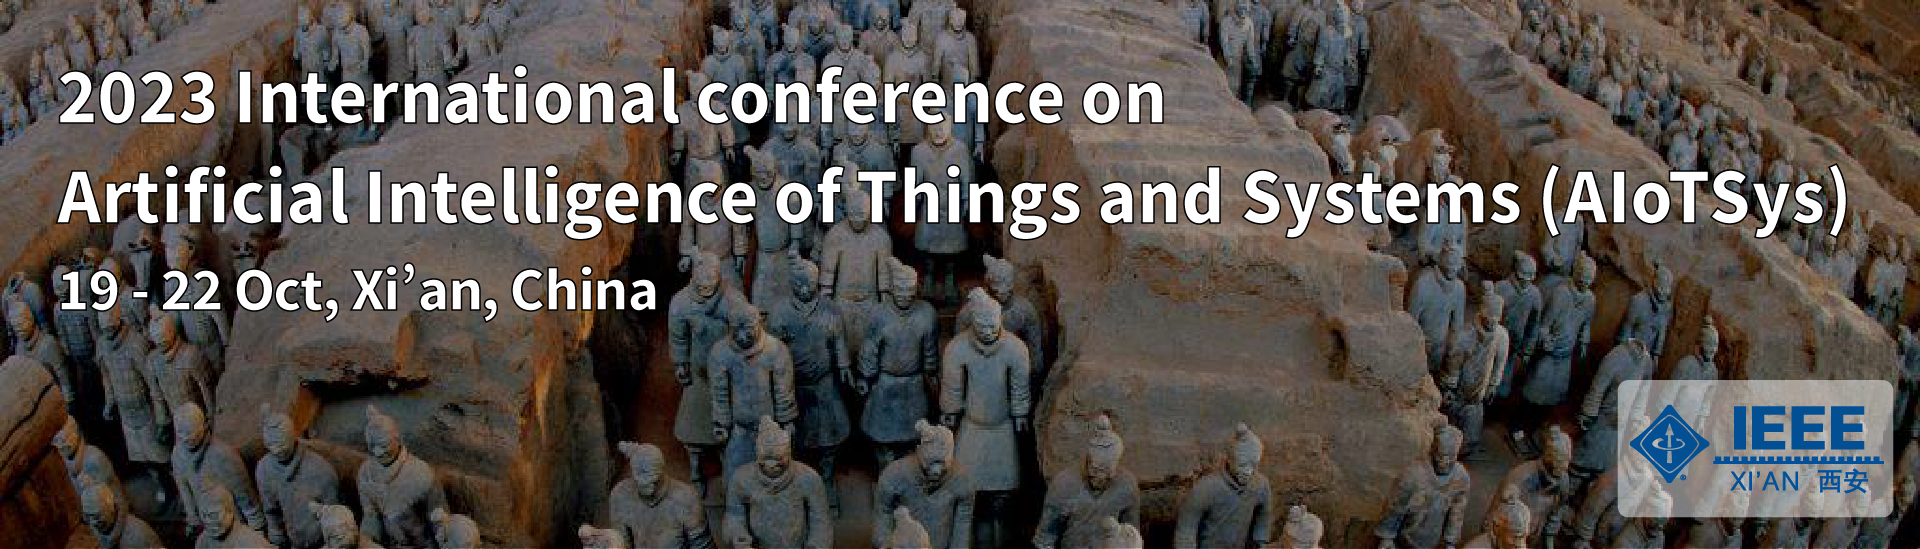
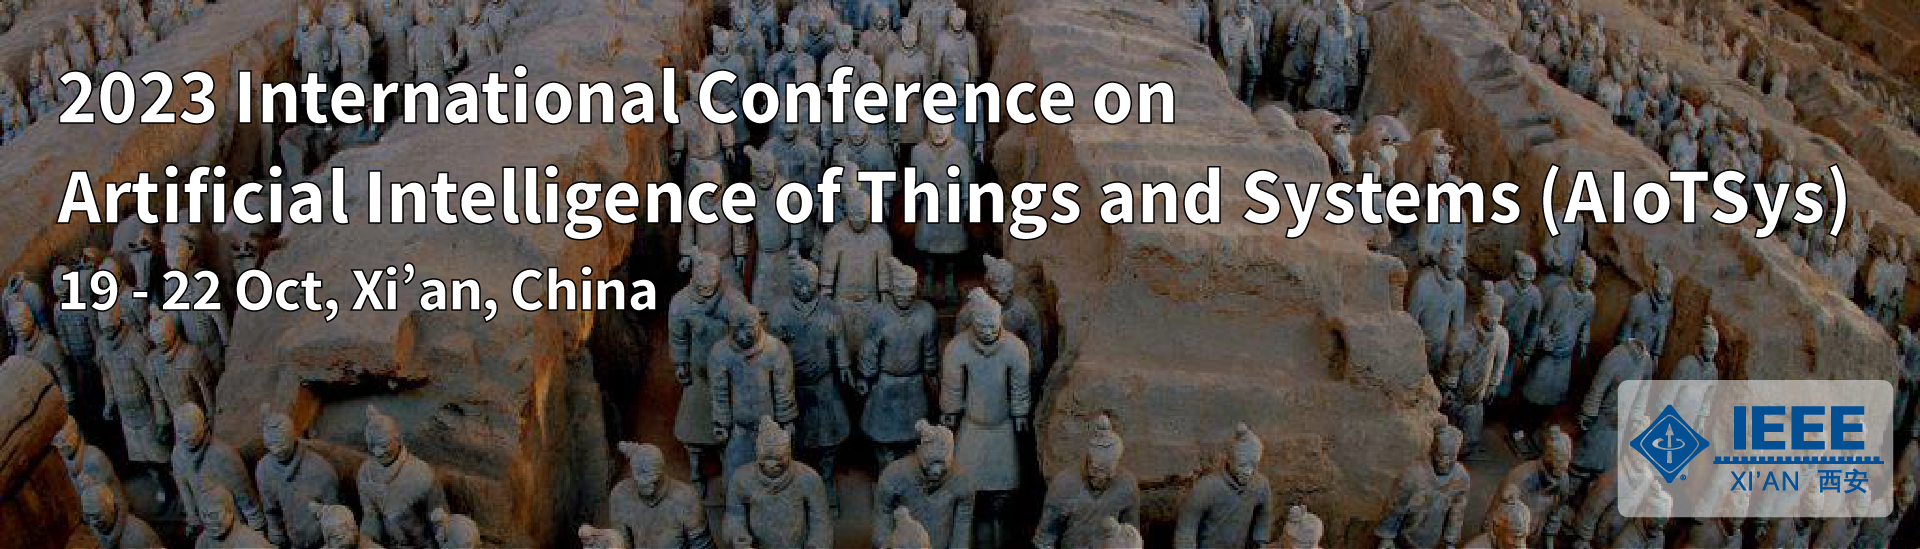
minor adjustment

Changed region(s): [[0.3438, 0.1239, 0.625, 0.2477]]

diff --git a/component/app.vue.js b/component/app.vue.js
@@ -4,8 +4,8 @@ var appframe = {
     <div class="container d-flex my-4">
       <a href="#" id="title" class="sm">
         <p class="header-title">
-          International conference on Artificial intelligence of things and
-          systems
+          International Conference on Artificial Intelligence of Things and
+          Systems
         </p>
       </a>
     </div>

diff --git a/content.md b/content.md
@@ -196,3 +196,19 @@ Local & Web Chairs
 -	Yunji Liang, Northwestern Polytechnical University, China
 -	Bo Yang, Northwestern Polytechnical University, China
 -	Zhuo Sun, Northwestern Polytechnical University, China
+
+## 20230210 修改意见
+
+工业界那几个字麻烦去掉。陈龙彪老师的可以加上了。另外，icassp网站上是采用照片+职称这种形式，还麻烦你也按照这个格式更改一下。老师们的照片，需要你在网上找一下。
+
+郭老师说把banner图片换成兵马俑，移动端好像看不到图片，估计还要调整一下。最上面有个IEEE的黑色导航栏，去掉。
+
+conference title里面， Aritificial， Intelligence，Things Systems都要首字母大写，简称是AIoTSys，放在title后面
+
+calls 里面，暂时只保留important dates 和 call for paper两个页面
+
+venue把西安的介绍先放进去。
+
+contact里面，先写郭斌老师和我的邮箱（guob@nwpu.edu.cn，izhangying@nwpu.edu.cn）
+
+program下面，放program，invited talk， best paper award三个子页面
